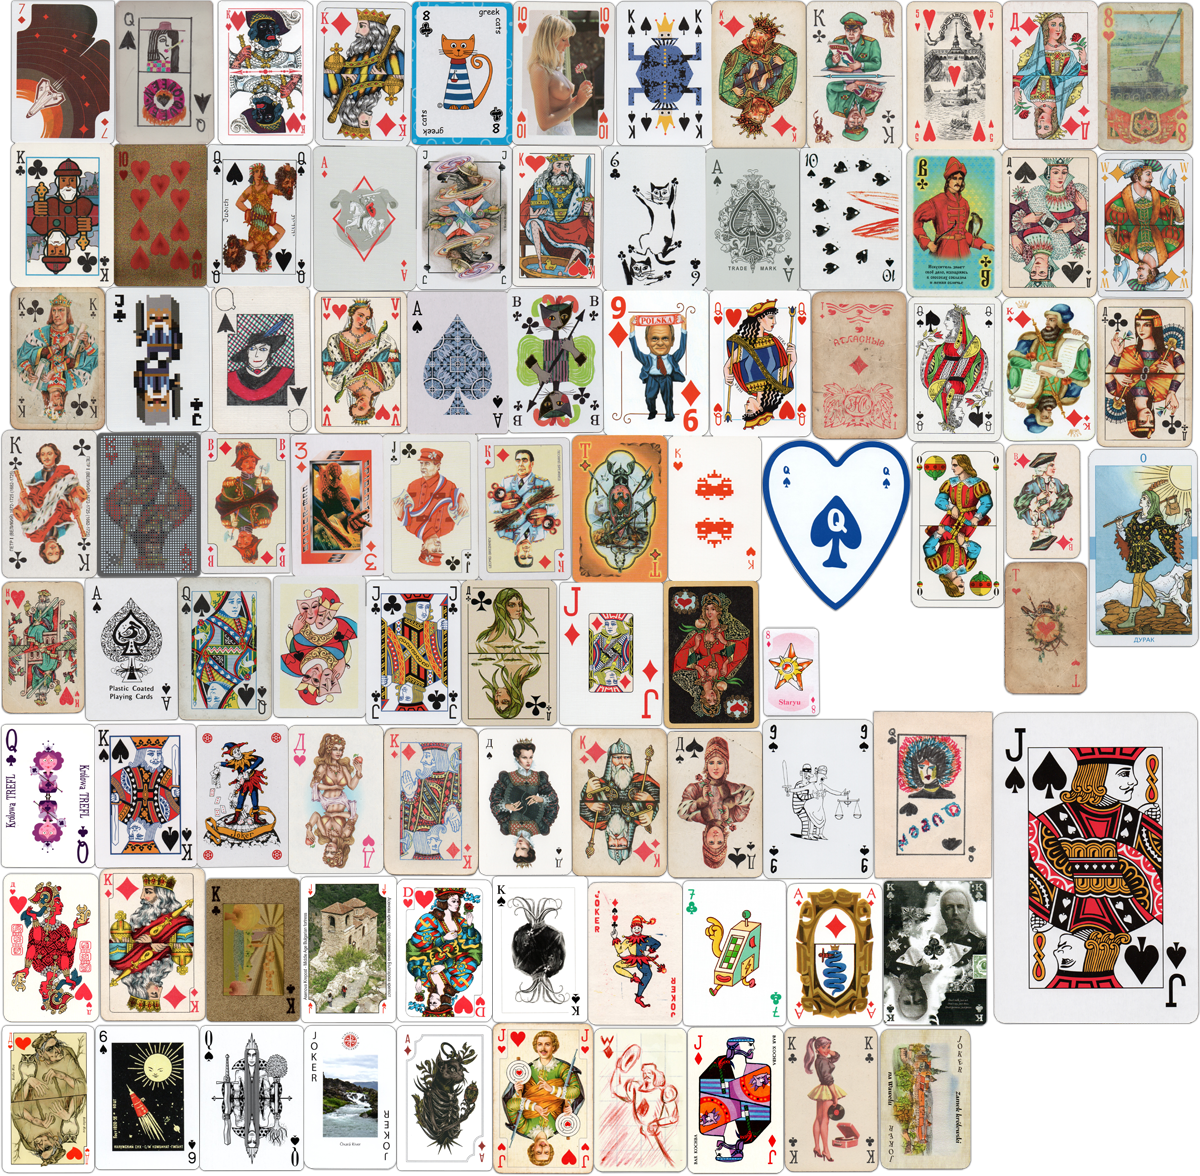
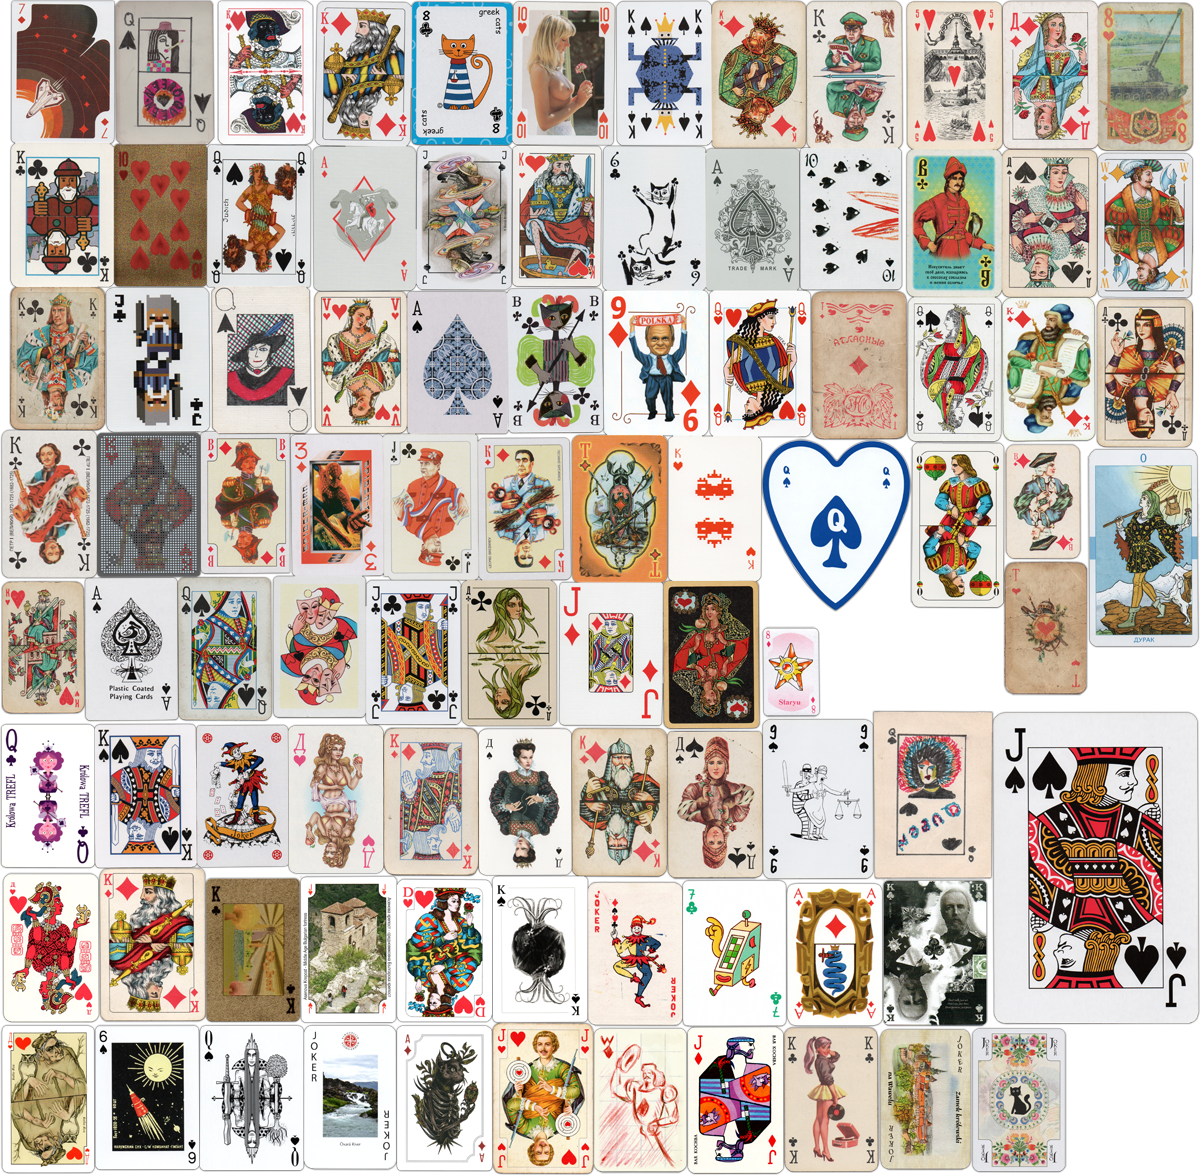
feat(Playing cards): add card "Polska Sztuka Ludowa"

Changed region(s): [[0.8017, 0.8571, 0.8942, 1.0]]

diff --git a/src/app/data/translations/ru.ts b/src/app/data/translations/ru.ts
@@ -436,7 +436,7 @@ export const ru: TranslatedStrings = {
         'Не ставлю себе задачу собрать очень много и всё подряд, поэтому коллекция не очень \
 большая и насчитывает на данный момент около 90 колод. Собираю именно те, \
 которые понравились.',
-      imgTitle: 'По одной карте из каждой колоды (кликабельно). Июль 2020',
+      imgTitle: 'По одной карте из каждой колоды (кликабельно). Август 2020',
     },
   },
   Poland: {

diff --git a/src/app/components/item-pages/PlayingCardsPage/index.tsx b/src/app/components/item-pages/PlayingCardsPage/index.tsx
@@ -572,6 +572,14 @@ const PlayingCardsPage: React.FunctionComponent<ItemPageProps> = ({className, it
               height={243}
             />
             <PlayingCard title="Zamki w Polsce" x={1465} y={1714} width={155} height={239} />
+            <PlayingCard
+              href="http://www.dama-pik.com.ua/cards/ethnography/polska-sztuka-ludowa/"
+              title="Polska Sztuka Ludowa"
+              x={1620}
+              y={1714}
+              width={158}
+              height={242}
+            />
 
             {/* rest */}
             <PlayingCard

diff --git a/src/app/data/translations/en.ts b/src/app/data/translations/en.ts
@@ -354,7 +354,7 @@ export const en: TranslatedStrings = {
         'There is no purpose to gather everything from everywhere, \
 so the collection is not so big and contains around 90 decks today. \
 Collecting those which I really like.',
-      imgTitle: 'One card from each deck (clickable). July 2020',
+      imgTitle: 'One card from each deck (clickable). August 2020',
     },
   },
   Poland: {
